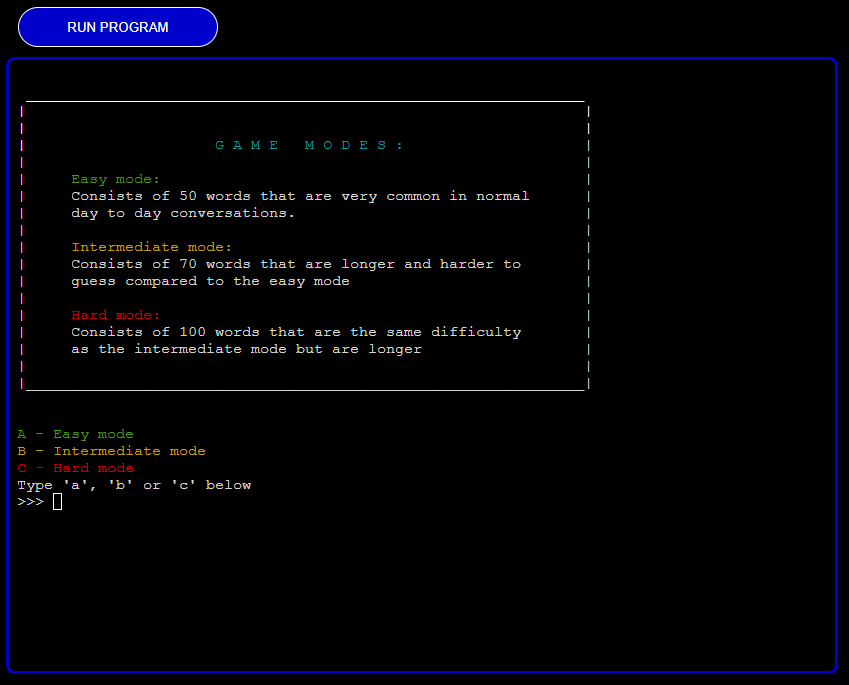
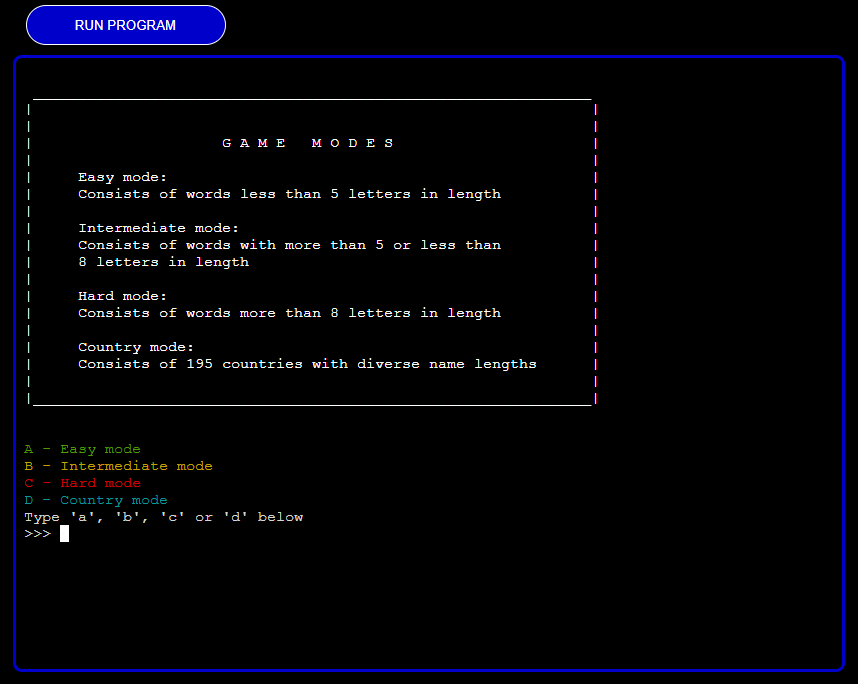
Update README, with newly added hint token usage change, new game mode and updated table

diff --git a/classes/definition.py b/classes/definition.py
@@ -33,7 +33,7 @@ class GrabDefinition:
                         definition = meanings[0]["values"][0]
                         # Display definition to player and hide the word by replacing
                         # it with "(hidden correct word)"
-                        print(Fore.CYAN + """Definition of word:""" \
+                        print(Fore.CYAN + """Definition of word: """ \
                         f"""{definition.replace(word, '(hidden correct word)')}""" + Fore.RESET)
                     else:
                         # If no definition is found, let the player know
@@ -44,7 +44,7 @@ class GrabDefinition:
             except Exception as e:
                 # Handle any exception that may occur
                 print(f"An error occurred: {e}")
-                
+
         @staticmethod
         def grab_country_data(country):
             print(Fore.YELLOW + "Grabbing country data...")

diff --git a/docs/README.md b/docs/README.md
@@ -135,6 +135,7 @@ From the game modes screen, the user sees:
   - Type A for Easy mode
   - Type B for Intermediate mode
   - Type C for Hard mode
+  - Type D for country mode
 
 ![Game modes screen](screenshots/ultimate-hangman-game-modes-screen.png)
 
@@ -144,7 +145,7 @@ From the game screen, the user sees:
 
 - ASCII art displaying the build stage of the hangman
 - Game hint message section, this section's text displays various messages based on what the user does, for example:
-  - When the player first starts the game they see a "Good luck" message
+  - When the player first starts the game they see a message stating how many letters the word has "This word is (length of word) letters in length, good luck"
   - If the player does not enter either a letter or a word (for example: numbers or symbols..) they see "Your input is neither a letter nor a word, try again."
   - If the player has guessed a word, but it is guessed already they see "You have guessed the word {user_input} already."
   - If they guess a word but it's not the correct word they see "Wrong! {user_input} is not the word"
@@ -154,9 +155,32 @@ From the game screen, the user sees:
 - Wrong guesses section, this section displays a list of wrong guesses, by combining wrongly guessed letters and words
 - The hangman word but its hidden with underscores, once the player starts guessing correctly they will have visual conformation of their correct guess because it will be displayed
 - The amount of attempts the player has left, the number starts from 7
+- Optional hint token, when the player wants to use their hint token, all they have to do is type "hint" during the game, and they get the definition of the hangman word
 - An input field prompting the player to either input a letter or a word
 
 ![Game screen](screenshots/ultimate-hangman-game-screen.png)
+
+### **When the Player uses the hint token**
+
+When the player types "hint" the following happens:
+
+#### **_Regular mode_**
+
+When the player is playing the following game modes: Easy mode, intermediate mode or hard mode, they see the following:
+
+- A text saying the definition is being grabbed
+- The definition itself, without revealing the hangman word. Because to describe a word, some responses came back with the hangman word itself so to hide this I replaced the word in the definition with (hidden correct word)
+
+![Regular mode hint](screenshots/ultimate-hangman-regular-hint.png)
+
+When the player is playing the country mode, they see the following:
+
+- A text saying the country data is being grabbed
+- The country data itself, the information given to the player when they use this hint is the region the country is in, the capital city and the countries currency alpha code.
+
+![Country mode hint](screenshots//ultimate-hangman-country-mode-hint.png)
+
+#### **_Country mode_**
 
 ### **_Game screen 6 attempts left_**
 
@@ -207,16 +231,6 @@ When the player has 3 attempts left, the following happens:
 - The player gets to choose if they want to use the hint token, in doing so they will lose 25 points if they have more than 25 already, but they get to see the definition of the word, which gives them a great advantage. If they choose no they will be asked to use the hint token again till the game is lost
 
 ![Game screen 3 attempts left](screenshots/ultimate-hangman-game-screen-3-attempts-left.png)
-
-#### **_The Player uses the hint token_**
-
-When the player has 3 or fewer attempts remaining and they use their hint token, the following happens:
-
-- They get a message saying the definition is being grabbed
-- The definition of the word is displayed. If the definition of the word requires the use of the word then it's replaced with (hidden correct word)
-- The player is then prompted to enter a guess
-
-![Game screen Hint token](screenshots/ultimate-hangman-game-screen-hint-token.png)
 
 ### **_Game screen 2 attempts left_**
 
